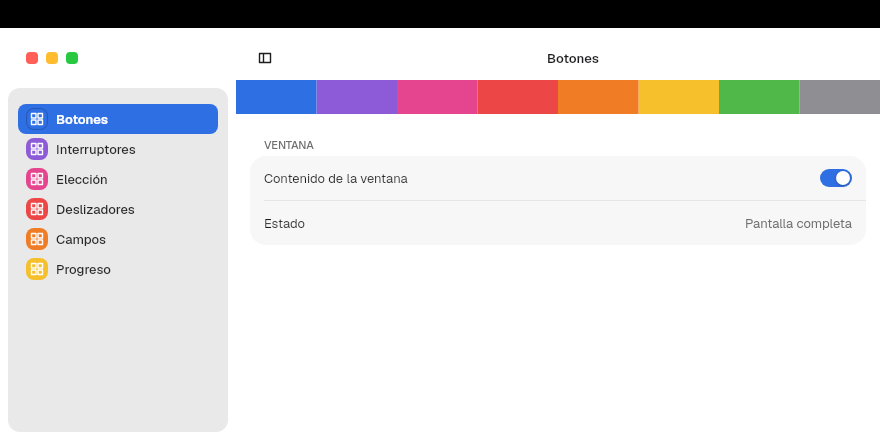
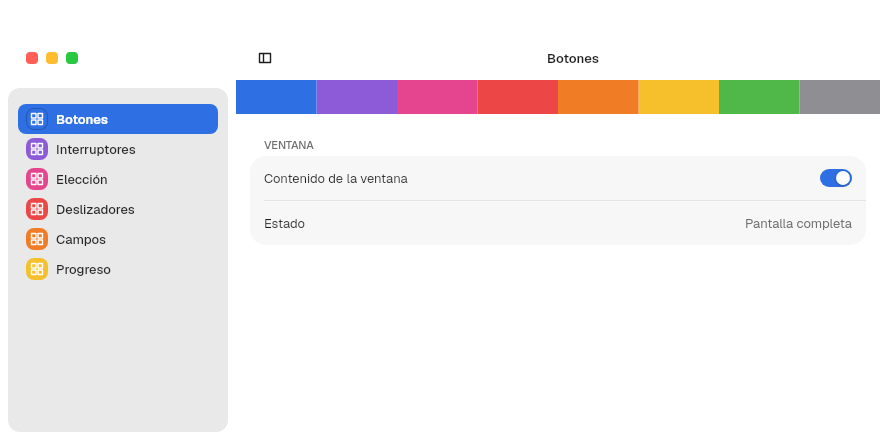
fix(kit): blur in the top fullscreen glass, Rail without vertical shift
- The fullscreen backdrop takes the reveal opacity itself. Wrapped in an
  opacity layer, the backdrop blur sampled that empty layer, so Glass and
  ProgressiveGlass did not blur under the top titlebar.
- With the Rail nothing moves down with the compositor bar again: the
  top titlebar stays in place and only the rail slides in from the left,
  its traffic lights below the bar.
- Chapter 7 (es/en) and the focus-mode screenshots follow.

Claude-Session: https://claude.ai/code/session_01F89v1w3NBR5b9eab8vdVJm

Changed region(s): [[0.0, 0.0, 1.0, 0.0886]]

diff --git a/crates/barrier-kit/src/glass.rs b/crates/barrier-kit/src/glass.rs
@@ -33,6 +33,7 @@ struct Glass {
     metrics: FullscreenGlassMetrics,
     tint: Rgba,
     line: Option<Rgba>,
+    opacity: f32,
     layout: LayoutData,
 }
 
@@ -57,6 +58,7 @@ fn glass(
     metrics: FullscreenGlassMetrics,
     depth: f32,
     line: Option<Rgba>,
+    opacity: f32,
 ) -> Element {
     let (width, height, position) = along(edge, depth);
     let layout = torin::node::Node {
@@ -72,13 +74,20 @@ fn glass(
             metrics,
             tint: glass_tint(),
             line,
+            opacity,
             layout: layout.into(),
         }),
         elements: Vec::new(),
     }
 }
 
-pub(crate) fn fullscreen_backdrop(bar: FullscreenBar, edge: GlassEdge, depth: f32) -> Element {
+// An opacity layer would hold the backdrop blur, which then samples that empty layer instead of the window.
+pub(crate) fn fullscreen_backdrop(
+    bar: FullscreenBar,
+    edge: GlassEdge,
+    depth: f32,
+    opacity: f32,
+) -> Element {
     match bar {
         FullscreenBar::Solid => {
             let (width, height, position) = along(edge, depth);
@@ -87,7 +96,7 @@ pub(crate) fn fullscreen_backdrop(bar: FullscreenBar, edge: GlassEdge, depth: f3
                 .width(width)
                 .height(height)
                 .background(crate::theme::color(Rgba {
-                    a: 1.0,
+                    a: opacity,
                     ..glass_tint()
                 }))
                 .into_element()
@@ -97,10 +106,15 @@ pub(crate) fn fullscreen_backdrop(bar: FullscreenBar, edge: GlassEdge, depth: f3
             FULLSCREEN_BAND,
             depth,
             Some(crate::style::Palette::current().separator),
+            opacity,
         ),
-        FullscreenBar::ProgressiveGlass => {
-            glass(edge, FULLSCREEN_GLASS, FULLSCREEN_GLASS.height, None)
-        }
+        FullscreenBar::ProgressiveGlass => glass(
+            edge,
+            FULLSCREEN_GLASS,
+            FULLSCREEN_GLASS.height,
+            None,
+            opacity,
+        ),
     }
 }
 
@@ -109,6 +123,7 @@ pub(crate) fn progressive_glass(edge: GlassEdge) -> Element {
         FullscreenBar::ProgressiveGlass,
         edge,
         FULLSCREEN_GLASS.height,
+        1.0,
     )
 }
 
@@ -192,7 +207,10 @@ impl ElementExt for Glass {
             let mut mask = inwards(
                 self.edge,
                 bounds,
-                Rgba::rgb8(255, 255, 255),
+                Rgba {
+                    a: self.opacity,
+                    ..Rgba::rgb8(255, 255, 255)
+                },
                 &layer_mask(self.metrics.mask, level / 2.0, level),
             );
             mask.set_blend_mode(BlendMode::DstIn);
@@ -206,7 +224,15 @@ impl ElementExt for Glass {
         }
         canvas.draw_rect(
             bounds,
-            &inwards(self.edge, bounds, self.tint, self.metrics.tint),
+            &inwards(
+                self.edge,
+                bounds,
+                Rgba {
+                    a: self.tint.a * self.opacity,
+                    ..self.tint
+                },
+                self.metrics.tint,
+            ),
         );
         if let Some(line) = self.line {
             let width = FULLSCREEN_BAR.band_line * context.scale_factor as f32;
@@ -225,7 +251,13 @@ impl ElementExt for Glass {
                 ),
             };
             let mut paint = Paint::default();
-            paint.set_color4f(rgba4f(line), None);
+            paint.set_color4f(
+                rgba4f(Rgba {
+                    a: line.a * self.opacity,
+                    ..line
+                }),
+                None,
+            );
             canvas.draw_rect(edge_line, &paint);
         }
     }

diff --git a/crates/barrier-kit/src/chrome.rs b/crates/barrier-kit/src/chrome.rs
@@ -335,10 +335,6 @@ impl Component for WindowChrome {
         style_state.set_if_modified(style);
         let mut items_state = chrome.rail_items;
         items_state.set_if_modified(self.rail_items.clone());
-        if let Some(controls) = try_consume_root_context::<WindowControls>() {
-            let mut rail_layout = controls.rail_layout;
-            rail_layout.set_if_modified(style.layout == TitlebarLayout::Rail);
-        }
         let mut revealed = use_state(|| false);
         let reduced_motion = crate::theme::resolved().reduced_motion;
         let animation = use_animation_transition(revealed, move |from: bool, to: bool| {
@@ -454,7 +450,7 @@ impl Component for WindowChrome {
                     .width(Size::px(extent))
                     .height(Size::percent(100.0))
                     .layer(Layer::Overlay)
-                    .child(fullscreen_backdrop(bar, GlassEdge::Left, extent))
+                    .child(fullscreen_backdrop(bar, GlassEdge::Left, extent, 1.0))
                     .child(rail(style, items, 1.0)),
             );
         }
@@ -487,6 +483,12 @@ fn rail(style: ChromeStyle, items: &RailItems, lights_opacity: f32) -> Rect {
     let lights_shown = controls
         .as_ref()
         .is_none_or(|controls| controls.traffic_lights_shown());
+    let below_bar = controls
+        .as_ref()
+        .filter(|_| overlaid && !fullscreen_push())
+        .map_or(0.0, |controls| {
+            *controls.focus_bar_height.read() * *controls.focus_bar_progress.read()
+        });
     let floating = overlaid && !fullscreen_push();
     let background = if island || floating {
         Rgba::TRANSPARENT
@@ -516,7 +518,7 @@ fn rail(style: ChromeStyle, items: &RailItems, lights_opacity: f32) -> Rect {
         .cross_align(Alignment::Center)
         .spacing(TITLEBAR.buttons.spacing as f32)
         .padding(Gaps::new(
-            TITLEBAR_RAIL.padding_top,
+            TITLEBAR_RAIL.padding_top + below_bar,
             0.0,
             TITLEBAR_RAIL.padding_bottom,
             0.0,

diff --git a/crates/barrier-kit/src/platform/window.rs b/crates/barrier-kit/src/platform/window.rs
@@ -178,7 +178,6 @@ pub struct WindowControls {
     pub fullscreen_bar: State<FullscreenBar>,
     pub fullscreen_push: State<bool>,
     pub(crate) overlay_titlebar_height: State<f32>,
-    pub(crate) rail_layout: State<bool>,
 }
 
 pub(crate) fn window_activated() -> bool {
@@ -201,20 +200,15 @@ impl WindowControls {
             FullscreenBar::Glass => vow_design::FULLSCREEN_BAND.content_top,
             FullscreenBar::Solid => vow_design::FULLSCREEN_BAR.content_top,
         };
-        if self.titlebar_overlaid() && !self.pushes_content() {
+        if self.titlebar_overlaid() && !*self.fullscreen_push.read() {
             *self.focus_bar_height.read() + below_bar
         } else {
             0.0
         }
     }
 
-    // ADR 0054: with the Rail the top titlebar stays in the layout, so the bar pushes the window down.
-    pub(crate) fn pushes_content(&self) -> bool {
-        *self.fullscreen_push.read() || *self.rail_layout.read()
-    }
-
     pub(crate) fn push_offset(&self) -> f32 {
-        if self.pushes_content() && self.titlebar_overlaid() {
+        if *self.fullscreen_push.read() && self.titlebar_overlaid() {
             (*self.focus_bar_height.read() + *self.overlay_titlebar_height.read())
                 * *self.focus_bar_progress.read()
         } else {
@@ -528,7 +522,6 @@ impl Runtime {
             fullscreen_bar: State::create_global(options.fullscreen_bar),
             fullscreen_push: State::create_global(options.fullscreen_push),
             overlay_titlebar_height: State::create_global(0.0),
-            rail_layout: State::create_global(false),
         };
         if let Some(manager) = &self.focus_manager {
             let notice = manager.get_focus_surface(&surface, qh, surface.id());

diff --git a/crates/barrier-kit/src/titlebar.rs b/crates/barrier-kit/src/titlebar.rs
@@ -193,11 +193,11 @@ impl Component for Titlebar {
                             .position(Position::new_global().top(top).left(0.0))
                             .width(Size::window_percent(100.0))
                             .layer(TITLEBAR_OVERLAY_LAYER)
-                            .opacity(overlay_opacity)
                             .child(crate::glass::fullscreen_backdrop(
                                 fullscreen_bar,
                                 crate::glass::GlassEdge::Top,
                                 height,
+                                overlay_opacity,
                             )),
                     )
                     .child(

diff --git a/crates/barrier-kit/src/sidebar.rs b/crates/barrier-kit/src/sidebar.rs
@@ -229,7 +229,7 @@ impl Component for Sidebar {
             && lights_opacity > 0.0;
         let pushed_titlebar = controls
             .as_ref()
-            .filter(|controls| controls.pushes_content())
+            .filter(|controls| *controls.fullscreen_push.read())
             .map(|controls| *controls.overlay_titlebar_height.read());
         let overlay_top = controls.as_ref().and_then(|controls| {
             controls

diff --git a/crates/barrier-kit/src/platform/tests.rs b/crates/barrier-kit/src/platform/tests.rs
@@ -52,7 +52,6 @@ fn window_controls(status: WindowStatus) -> WindowControls {
         fullscreen_bar: freya_core::prelude::State::create(super::FullscreenBar::Solid),
         fullscreen_push: freya_core::prelude::State::create(false),
         overlay_titlebar_height: freya_core::prelude::State::create(0.0),
-        rail_layout: freya_core::prelude::State::create(false),
     }
 }
 

diff --git a/docs/barrierkit/07-titlebars.md b/docs/barrierkit/07-titlebars.md
@@ -215,10 +215,9 @@ incluida, baja lo que miden la barra del compositor y la titlebar
 #### Con el `Rail`
 
 Con el `Rail`, la titlebar superior no se retrae ni se superpone: se queda
-en su sitio, como en la ventana normal. Al bajar la barra del compositor, toda
-la ventana baja lo que mide la barra, así que la titlebar queda entera debajo.
-Solo el rail se oculta con la barra arriba y, al bajar, entra desde la
-izquierda con la misma barra, en vertical:
+en su sitio, como en la ventana normal, y nada baja con la barra del
+compositor. Solo el rail se oculta con la barra arriba y, al bajar, entra desde
+la izquierda con la misma barra, en vertical, con sus semáforos bajo la barra:
 
 | `FullscreenBar` | El rail | Cómo se ve |
 |---|---|---|

diff --git a/docs/barrierkit/07-titlebars.en.md b/docs/barrierkit/07-titlebars.en.md
@@ -214,10 +214,10 @@ and `fullscreen_content_top` is 0.
 #### With the `Rail`
 
 With the `Rail`, the top titlebar neither retracts nor overlays: it stays in
-place, as in the normal window. When the compositor bar comes down, the whole
-window moves down by the bar's height, so the titlebar stays whole below it.
+place, as in the normal window, and nothing moves down with the compositor bar.
 Only the rail hides while the bar is up and, when the bar comes down, slides in
-from the left with the same bar, vertically:
+from the left with the same bar, vertically, with its traffic lights below the
+bar:
 
 | `FullscreenBar` | The rail | How it looks |
 |---|---|---|
